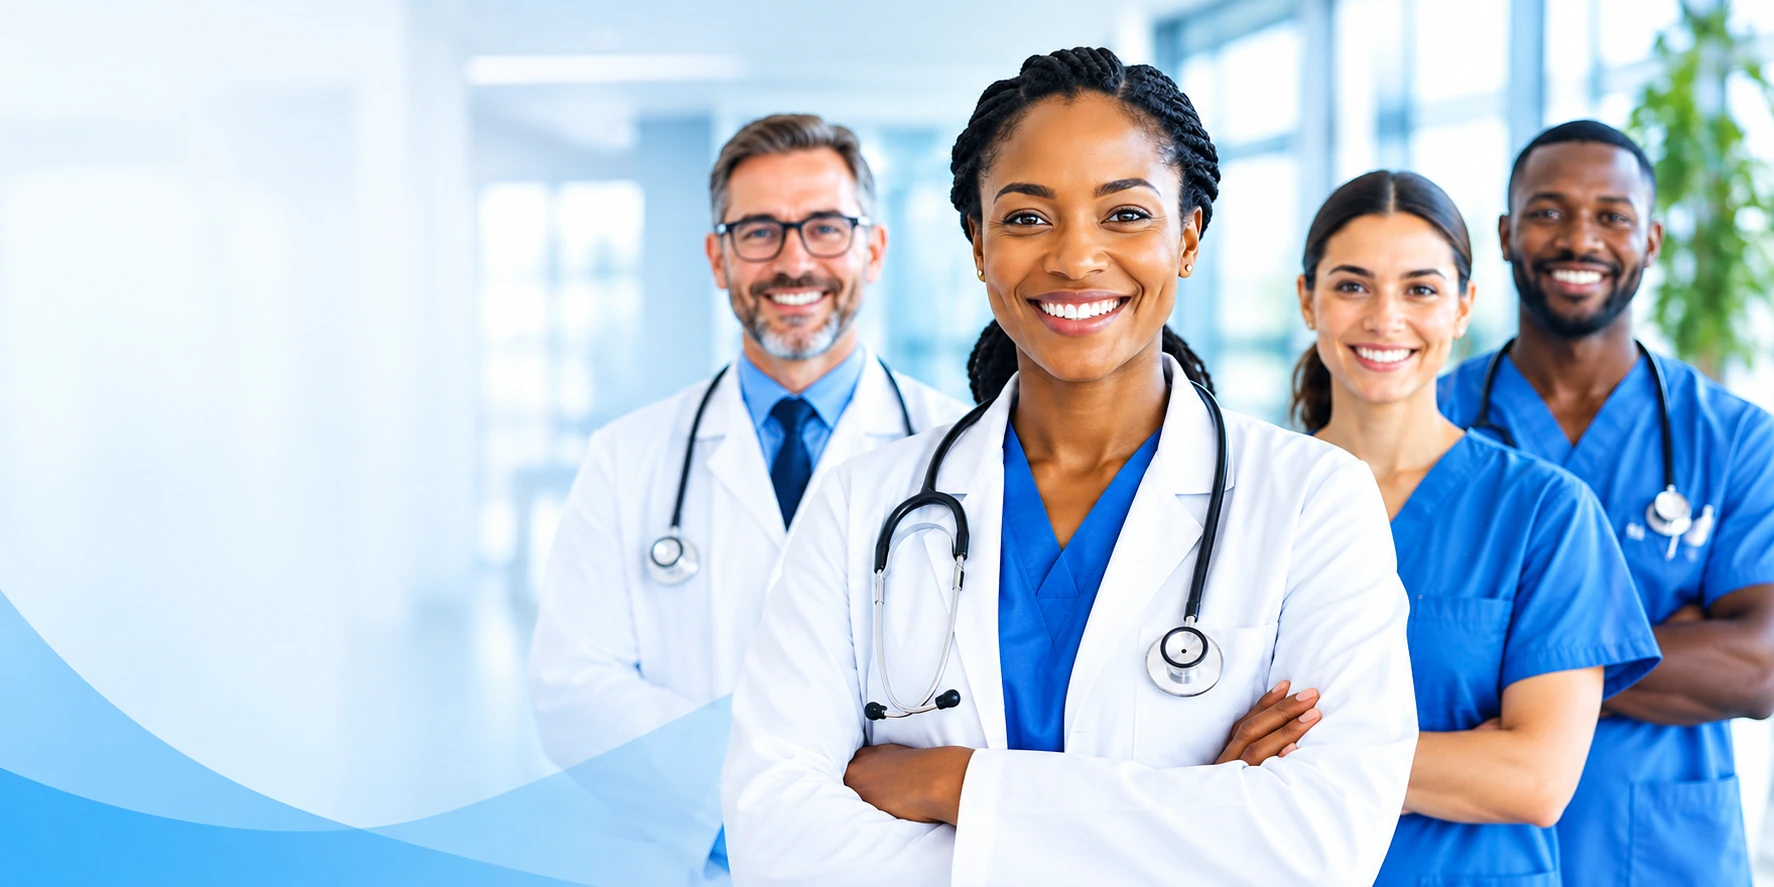
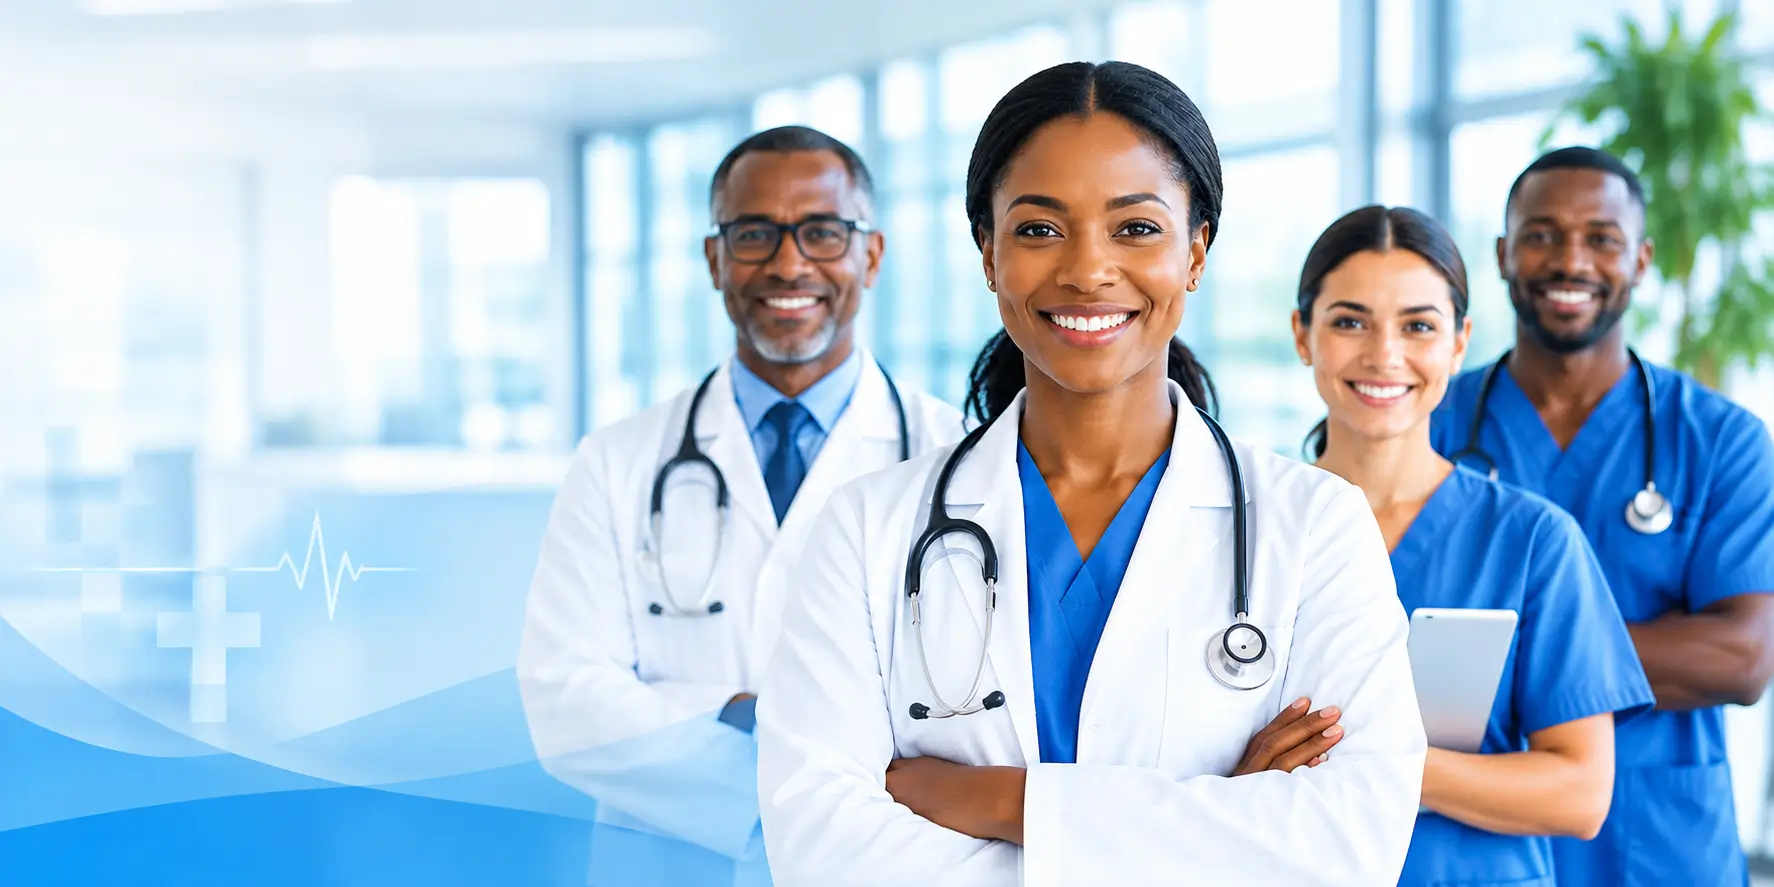
fix: refine about page presentation

diff --git a/src/pages/AboutUsPage.tsx b/src/pages/AboutUsPage.tsx
@@ -116,7 +116,7 @@ export default function AboutUsPage() {
         </section>
 
         <section className="mx-auto grid max-w-7xl gap-12 px-4 py-20 sm:px-6 lg:grid-cols-12 lg:gap-16 lg:px-8 lg:py-28">
-          <Reveal className="lg:col-span-4"><p className="text-sm font-semibold uppercase tracking-[0.16em] text-accent">Why we exist</p><h2 className="mt-4 font-display text-4xl font-medium leading-tight tracking-tight sm:text-5xl">Healthcare is already complex enough.</h2></Reveal>
+          <Reveal className="lg:col-span-4"><p className="text-sm font-semibold uppercase tracking-[0.16em] text-accent">Why we exist</p><h2 className="mt-4 font-display text-3xl font-medium leading-tight tracking-tight sm:text-4xl">Healthcare is already complex enough.</h2></Reveal>
           <Reveal delay={0.12} className="space-y-6 text-lg leading-relaxed text-muted-foreground lg:col-span-7 lg:col-start-6">
             <p>Every day, care teams reconcile appointments, records, inventory, compliance, and the needs of real people. When those systems are disconnected, the cost is felt in every handoff.</p>
             <p>We are building a calmer operational foundation: a secure, connected workspace where clinical insight and practical coordination can live side by side.</p>
@@ -126,7 +126,7 @@ export default function AboutUsPage() {
 
         <section className="border-y border-border bg-muted/45 py-20 sm:py-24">
           <div className="mx-auto max-w-7xl px-4 sm:px-6 lg:px-8">
-            <Reveal className="mb-12 max-w-2xl"><p className="text-sm font-semibold uppercase tracking-[0.16em] text-accent">The way we work</p><h2 className="mt-4 font-display text-4xl font-medium tracking-tight sm:text-5xl">Principles that guide every decision.</h2></Reveal>
+            <Reveal className="mb-12 max-w-2xl"><p className="text-sm font-semibold uppercase tracking-[0.16em] text-accent">The way we work</p><h2 className="mt-4 font-display text-3xl font-medium tracking-tight sm:text-4xl">Principles that guide every decision.</h2></Reveal>
             <div className="grid gap-5 md:grid-cols-3 lg:gap-7">
               {principles.map(({ icon: Icon, title, description }, index) => (
                 <Reveal key={title} delay={index * 0.1} className="group relative min-h-72 border border-border bg-background p-8 transition-all duration-300 hover:-translate-y-1 hover:border-accent/45 hover:bg-card hover:shadow-lg hover:shadow-primary/10 sm:p-9">
@@ -146,7 +146,7 @@ export default function AboutUsPage() {
 
         <section className="overflow-hidden border-y border-border bg-card py-20 sm:py-24">
           <div className="mx-auto max-w-7xl px-4 sm:px-6 lg:px-8">
-            <Reveal className="grid gap-8 lg:grid-cols-12 lg:items-end"><div className="lg:col-span-7"><p className="text-sm font-semibold uppercase tracking-[0.16em] text-accent">Our team</p><h2 className="mt-4 font-display text-4xl font-medium leading-tight tracking-tight sm:text-5xl">Different disciplines. One care-minded standard.</h2></div><p className="max-w-xl leading-relaxed text-muted-foreground lg:col-span-4 lg:col-start-9">Our work brings clinical, operational, technical, and safety perspectives into the same room—because good healthcare software is a team sport.</p></Reveal>
+            <Reveal className="grid gap-8 lg:grid-cols-12 lg:items-end"><div className="lg:col-span-7"><p className="text-sm font-semibold uppercase tracking-[0.16em] text-accent">Our team</p><h2 className="mt-4 font-display text-3xl font-medium leading-tight tracking-tight sm:text-4xl">Different disciplines. One care-minded standard.</h2></div><p className="max-w-xl leading-relaxed text-muted-foreground lg:col-span-4 lg:col-start-9">Our work brings clinical, operational, technical, and safety perspectives into the same room—because good healthcare software is a team sport.</p></Reveal>
             <div className="mt-12 grid gap-4 sm:grid-cols-2 lg:grid-cols-4">
               {teamDisciplines.map((discipline, index) => (
                 <Reveal key={discipline.title} delay={index * 0.08}>
@@ -168,7 +168,7 @@ export default function AboutUsPage() {
         </section>
 
         <section className="border-t border-border bg-primary py-20 text-center sm:py-24">
-          <Reveal className="mx-auto max-w-3xl px-4 sm:px-6"><h2 className="font-display text-4xl font-medium leading-tight tracking-tight text-primary-foreground sm:text-5xl">Let’s make the work of care feel more connected.</h2><p className="mx-auto mt-5 max-w-2xl text-lg leading-relaxed text-primary-foreground/80">See how Smart MediCare can support your hospital, clinic, or care network.</p><div className="mt-9 flex flex-col justify-center gap-3 sm:flex-row"><Button size="lg" className="gap-2 bg-accent text-accent-foreground hover:bg-accent/90" asChild><Link to="/request-demo">Request a demo <ArrowRight className="h-4 w-4" aria-hidden="true" /></Link></Button><Button size="lg" variant="outline" className="border-primary-foreground/30 text-primary-foreground hover:bg-primary-foreground/10 hover:text-primary-foreground" asChild><Link to="/">Explore the platform</Link></Button></div></Reveal>
+          <Reveal className="mx-auto max-w-3xl px-4 sm:px-6"><h2 className="font-display text-3xl font-medium leading-tight tracking-tight text-primary-foreground sm:text-4xl">Let’s make the work of care feel more connected.</h2><p className="mx-auto mt-5 max-w-2xl text-lg leading-relaxed text-primary-foreground/80">See how Smart MediCare can support your hospital, clinic, or care network.</p><div className="mt-9 flex flex-col justify-center gap-3 sm:flex-row"><Button size="lg" className="gap-2 bg-accent text-accent-foreground hover:bg-accent/90 hover:text-accent-foreground" asChild><Link to="/request-demo">Request a demo <ArrowRight className="h-4 w-4" aria-hidden="true" /></Link></Button><Button size="lg" variant="outline" className="border-primary-foreground/30 text-primary-foreground hover:bg-primary-foreground/10 hover:text-primary-foreground" asChild><Link to="/">Explore the platform</Link></Button></div></Reveal>
         </section>
       </main>
     </div>
